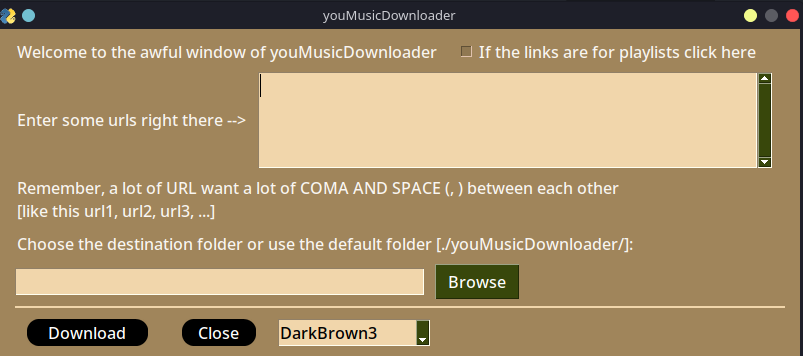
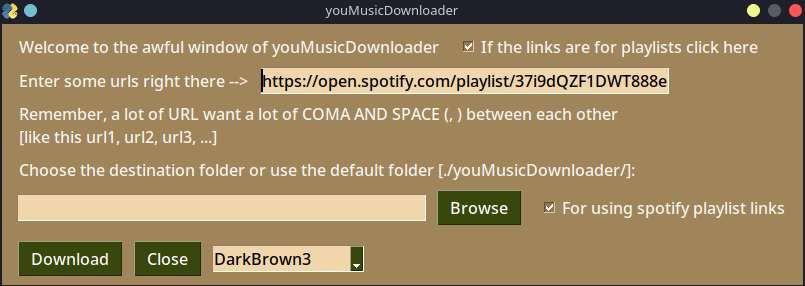
Spotify playlist support is now reality

diff --git a/utils/sptFuns.py b/utils/sptFuns.py
@@ -1,5 +1,5 @@
 import spotipy as spt
-from ytFuns import findSong
+from utils.ytFuns import findSong
 
 def getInfoSong(track):
     listArtist = list()
@@ -23,11 +23,3 @@ def spotifyPlaylistExtractor(url: str)-> list[str]:
     for d in dictList:
         urls.append(findSong(d))
     return urls
-
-def get_track_urls(tracks):
-    tn= []
-    for track in tracks:
-        print(track.name)
-        print(track)
-    return []
-spotifyPlaylistExtractor('https://open.spotify.com/playlist/37i9dQZF1DWT888el8RDPq?si=0726bc9a953549a0')

diff --git a/utils/ytFuns.py b/utils/ytFuns.py
@@ -1,4 +1,4 @@
-from pytube import YouTube, Playlist
+from pytube import YouTube, Playlist, Search
 import os
 from pathlib import Path
 
@@ -33,4 +33,8 @@ def youtubePlaylistExtractor(url: str)-> list[str]:
     return playlist.video_urls
     
 def findSong(infos: dict())-> str:
-    return ""
+    #https://www.youtube.com/watch?v=sbwPp-H4RHw&pp=ygUYc29uZ25hbWUgYXV0aG9yMSBhdXRob3Iy
+    query = infos['title']
+    for artist in infos['artists']:
+        query += ' ' + artist
+    return Search(query).results[0].watch_url

diff --git a/youMusicDownloader.py b/youMusicDownloader.py
@@ -66,7 +66,6 @@ def main():
             progress_bar.update(visible=True)
             if values['-PLAYLIST-'] :
                 if values['-SPOTI-']:
-                    print("GOING TO PRINT SPOTI THINGS")
                     download_spotify_playlist(values['-PLAYLISTURL-'].split(', '), progress_bar, outdir)
                 else:
                     download_playlists(values['-PLAYLISTURL-'].split(', '), progress_bar, outdir)

diff --git a/README.md b/README.md
@@ -1,15 +1,19 @@
 # youMusicDownloader
-Python GUI for a youtube songs downloader. This small software grant you to download youtube audio for free, you can choose to download song by song or playlist by playlist.
+Python GUI for a youtube songs downloader. This small software grants you:
+- Free download at maximum bitrate for youtube audio
+- Multiple download with a lot of urls
+- Multiple download thanks to youtube playlist url (it supports multiple youtube playlists url)
+- Multiple download thanks to **spotify playlists download** (it supports multiple spotify playlists url)
 
-At the first start you need to copy-paste a code given by the software into a url and then login with you youtube account.
+At the first start you need to copy-paste a code given by the software (in the console) into a url (in the console) and then login with you youtube account.
 
 ## News:
-The software will support soon the Spotify playlists.
+The software now supports the spotify playlist download
 
 ## pip package that you need:
-*PySimpleGUI*, *pytube*, *spotify* 
+*PySimpleGUI*, *pytube*, *spotipy* 
 
-`pip install pysimplegui`, `pip install pytube`, `pip insrtall spotify`
+`pip install pysimplegui`, `pip install pytube`, `pip insrtall spotipy`
 
 ## GUI preview:
 ![GUI preview](./media/windowView.png)
